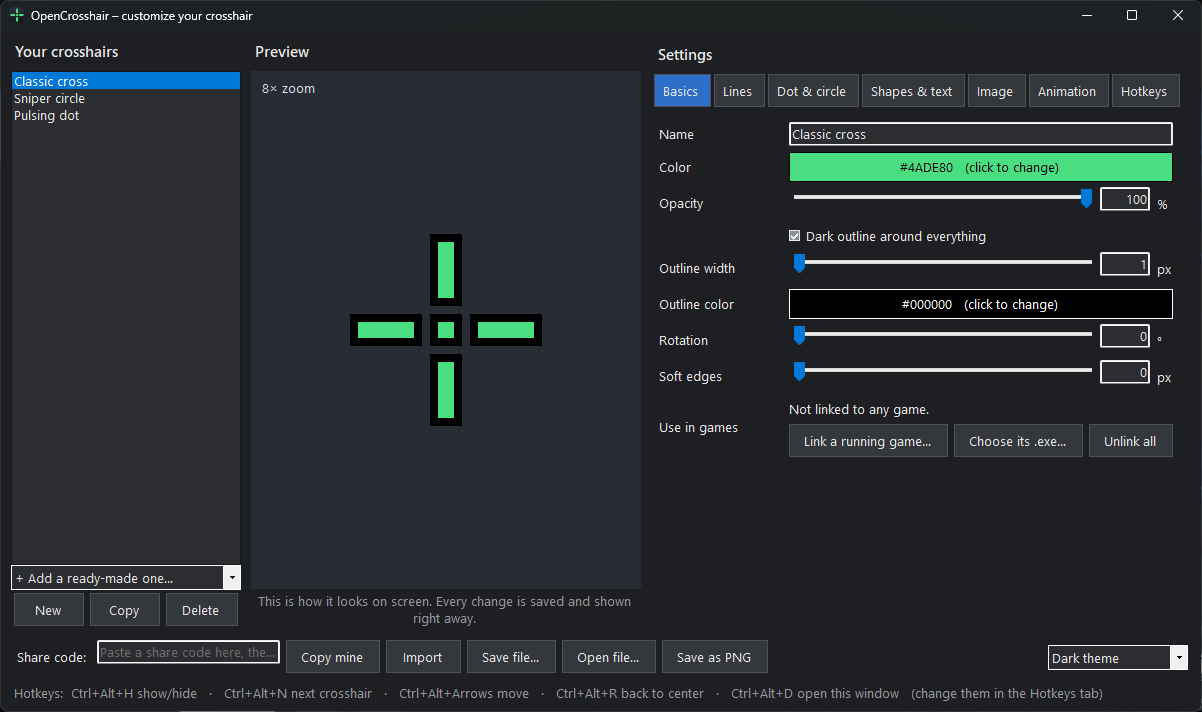
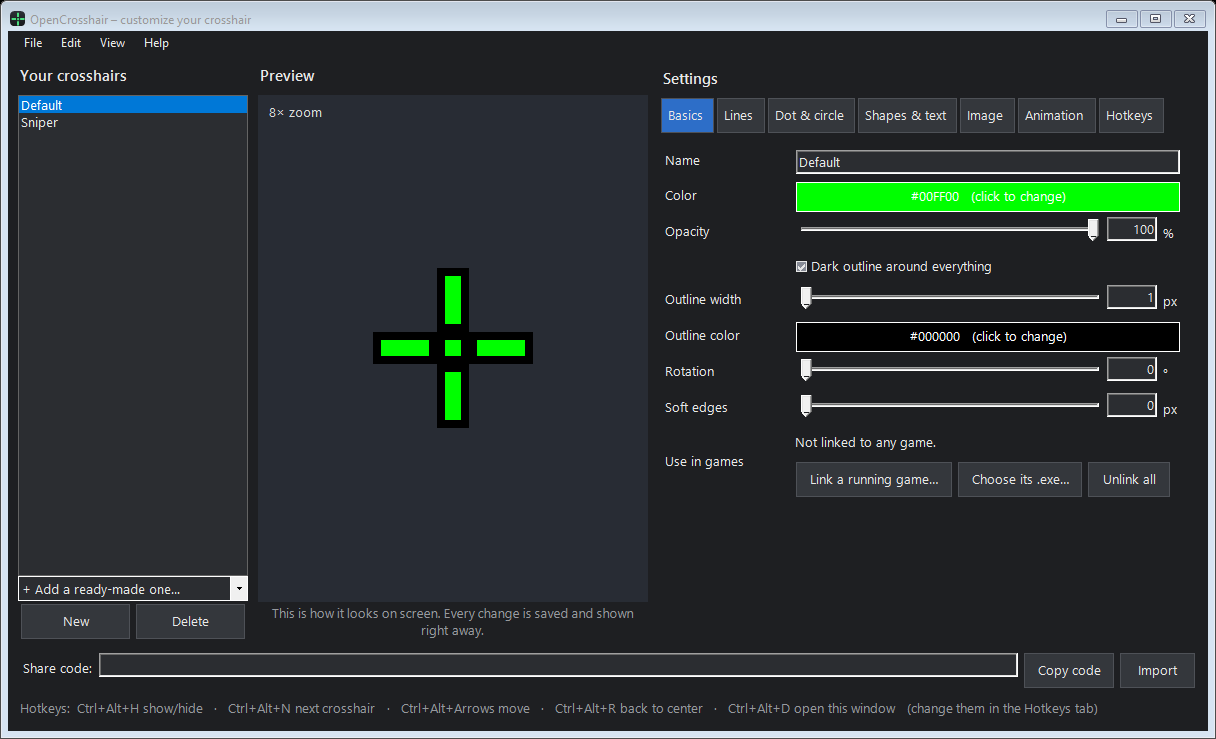
OpenCrosshair 1.4.0: README, roadmap and screenshots

diff --git a/README.md b/README.md
@@ -15,8 +15,16 @@ of any game running in **borderless/windowed** mode. No ads, no telemetry, no ne
   crosshairs** to start from:
   - lines: 2 to 8 arms, length, thickness, gap, T-style
   - center dot (square or round), circle or arc, shapes (chevron, triangle, square)
-  - a short text label under the crosshair
+  - a short text label under the crosshair, **emoji in full color** 🎯
   - color, opacity, outline, rotation (45° makes an X), soft edges
+- **Guided tour** the first time you open it: a spotlight walks you through the window, with "Try it" steps.
+  Skip it any time, or take it again from **Help**
+- **Undo and redo** (`Ctrl+Z` / `Ctrl+Y`) for every change, a regular **menu bar** with keyboard shortcuts, and a
+  right-click menu on your crosshair list
+- **10 languages:** English, Deutsch, Español, Français, Polski, Português (Brasil), Română, Русский, Türkçe and
+  简体中文. It follows your Windows language, or pick one in **View → Language**
+- **[Community library](library/README.md):** browse crosshairs other players shared and import them with one code;
+  **Help → Share yours in the library** opens a ready-filled form on GitHub
 - **Per-game crosshairs:** link a crosshair to a game and it switches on by itself whenever that game comes to the front
 - **Custom images:** use any PNG (transparency works) or **animated GIF** as your crosshair, scaled 10–400 %
 - **Animations:**
@@ -37,6 +45,10 @@ of any game running in **borderless/windowed** mode. No ads, no telemetry, no ne
 
 ![Ready-made crosshairs](docs/images/presets.png)
 
+### The guided tour
+
+![A "Try it" step of the tour: everything is dimmed except the list of ready-made crosshairs](docs/images/tour.png)
+
 <details>
 <summary>Light theme</summary>
 
@@ -50,7 +62,7 @@ Download one file from [Releases](../../releases) and run it. Nothing gets insta
 | File | For |
 |---|---|
 | `OpenCrosshair.exe` | Most PCs (Windows 10/11, 64-bit). Everything included, about 50 MB. |
-| `OpenCrosshair-small.exe` | Same app, about 600 KB, if you have the [.NET 10 Desktop Runtime](https://dotnet.microsoft.com/download/dotnet/10.0). Windows offers to download it if it's missing. |
+| `OpenCrosshair-small.exe` | Same app, about 2 MB, if you have the [.NET 10 Desktop Runtime](https://dotnet.microsoft.com/download/dotnet/10.0). Windows offers to download it if it's missing. |
 | `OpenCrosshair-arm64.exe` | Windows on ARM laptops (e.g. Snapdragon). |
 
 The app lives in the system tray (by the clock): double-click the icon to customize, right-click for options.
@@ -86,9 +98,10 @@ Everything is stored in `%APPDATA%\OpenCrosshair\settings.json`. If that file is
   whole screen. It only checks whether the button is down (no mouse hook) and intercepts nothing.
 - **Images:** files up to 25 MB, shrunk to fit 1024 px. Very long or large animated GIFs are cut short (at most
   300 frames, about 128 MB of memory).
-- **Labels:** emoji aren't supported.
 - **Display scaling above 100 %:** the window is built to scale, but this hasn't been tested on a scaled display yet.
-- English only.
+- **Translations** were written with the help of AI and haven't all been checked by native speakers yet. If something
+  reads oddly, a fix in `src/OpenCrosshair/lang/<language>.json` is very welcome (English text → your translation;
+  `dotnet test` checks that nothing is missing).
 
 See [ROADMAP.md](ROADMAP.md) for what's planned.
 
@@ -107,3 +120,4 @@ The icon is drawn by `tools/make-icon.ps1`.
 ## License
 
 [MIT](LICENSE). OpenCrosshair is an independent project and isn't affiliated with any other crosshair app.
+The libraries it includes for color emoji are listed in [THIRD-PARTY-NOTICES.md](THIRD-PARTY-NOTICES.md).

diff --git a/ROADMAP.md b/ROADMAP.md
@@ -2,6 +2,12 @@
 
 Improvements that are possible and free to build, roughly easiest first. Contributions welcome.
 
+## Done in 1.4
+
+Community crosshair library on GitHub · color emoji in labels · translations (9 languages besides English) ·
+a skippable guided tour with "Try it" steps · a menu bar with undo/redo, clearer feedback and a tidier window and
+tray menu, following Apple's design principles (agency, familiarity, simplicity, responsibility).
+
 ## Done in 1.3
 
 Back on top instantly · hotkeys set in the customize window · per-game crosshairs · Shoot only reacts in games ·
@@ -12,13 +18,7 @@ displays (built in, still to be tested on a scaled display).
 
 1. **Test at Windows display scaling above 100 %** and fix anything that looks off.
 2. **Per-game position:** remember the nudge offset per game, not only per display.
-
-## Bigger (days)
-
-3. **Emoji in labels.** Needs a different text engine that can draw color emoji.
-4. **Translations.** Move every text into a translatable file, then add languages.
-5. **Community crosshair library on GitHub.** A shared, browsable list of share codes and `.ochair` files in this
-   repository, importable from the app. No server or paid hosting needed.
+3. **Translation review** by native speakers, and more languages (add a file in `src/OpenCrosshair/lang`).
 
 ## Left out on purpose
 
@@ -26,3 +26,4 @@ displays (built in, still to be tested on a scaled display).
   widget: both need a paid certificate or developer account.
 - **Steam Workshop:** needs a paid Steam listing.
 - **Mac/Linux:** a different app. **Games that ban overlays:** their rules, not something code can change.
+- **Right-to-left languages** (Arabic, Hebrew): the window would need a mirrored layout; possible later if asked for.
